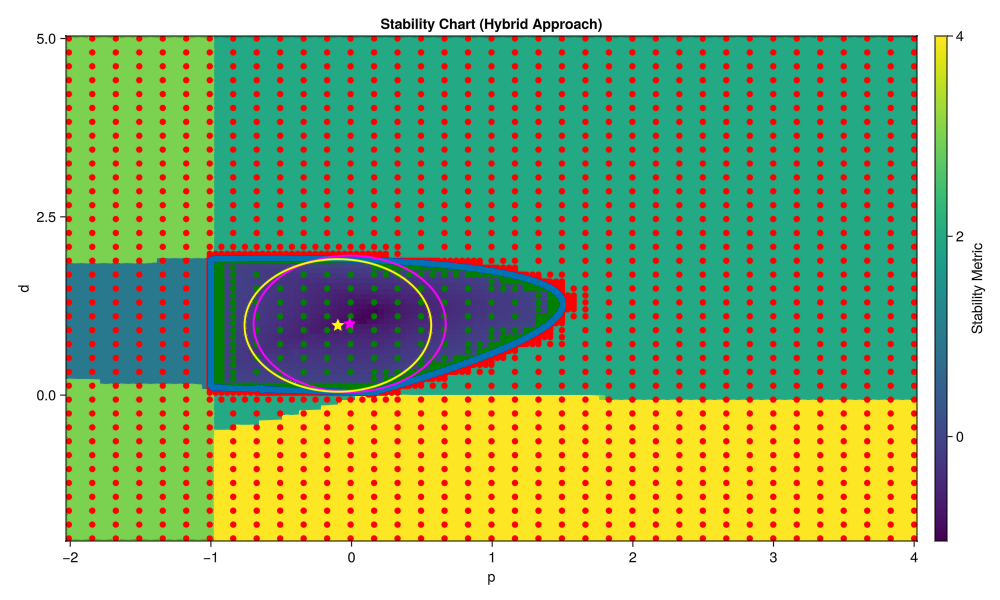
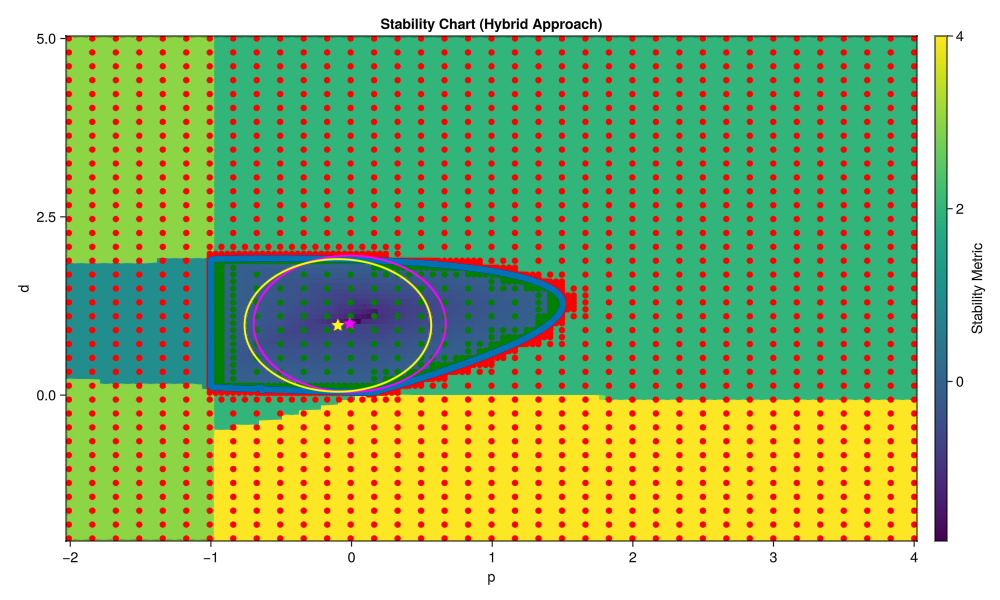
Add higher-order root refinement with Poly-3 default and accuracy benchmarks

Changed region(s): [[0.217, 0.42, 0.558, 0.66]]

diff --git a/README.md b/README.md
@@ -9,6 +9,7 @@
 - **Standardized Parameter Handling:** Consistent with `DifferentialEquations.jl` (accepts unified parameter collection `p`).
 - **Autodiff-Enhanced:** Uses exact phase derivatives via `ForwardDiff.jl`.
 - **Stiff Integration:** Employs robust ODE solvers (like `Rosenbrock23`) to track rapid phase changes without skipping encirclements.
+- **Higher-Order Root Refinement:** Provides sub-grid precision for characteristic roots using Linear, **3rd-order Polynomial (default)**, or Newton-Raphson approximation.
 - **Hybrid Strategy:** Fast global sweeps for background mapping, high-precision MDBM for boundary tracing.
 - **Error Estimation:** Self-validating numerical integrity based on the winding number's integer requirement.
 
